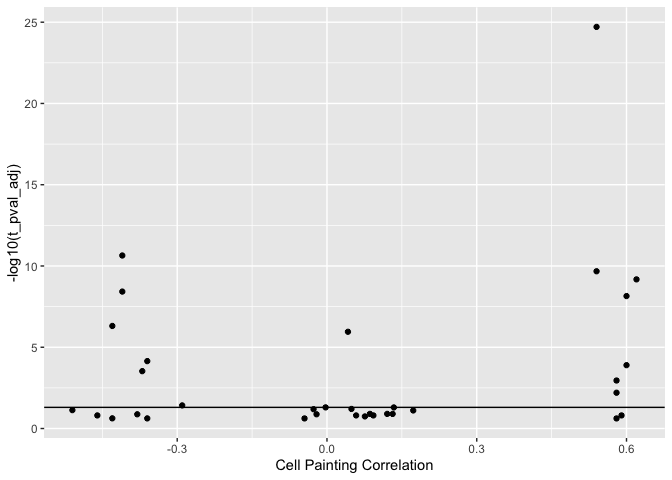
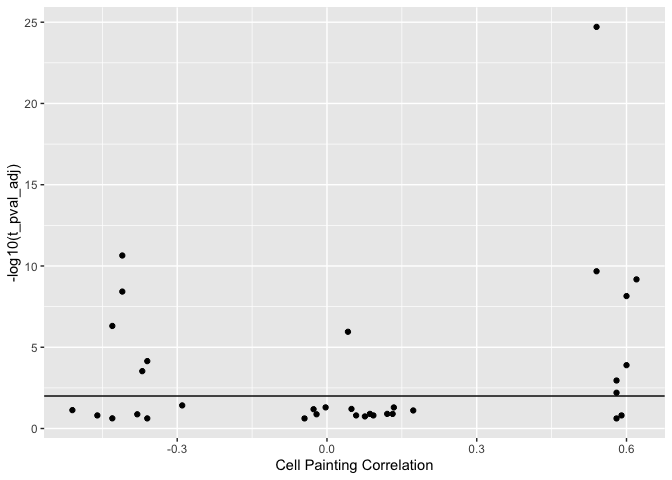
signif

Changed region(s): [[0.0625, 0.8125, 0.9688, 0.875]]

diff --git a/p38a/knit_notebooks/2.inspect-single-cell.md b/p38a/knit_notebooks/2.inspect-single-cell.md
@@ -371,7 +371,7 @@ statistics_agg <-
 statistics_agg %>%
   ggplot(aes(Broad, -log10(t_pval_adj))) + 
   geom_point() + 
-  geom_hline(yintercept = -log10(0.05)) + 
+  geom_hline(yintercept = -log10(0.01)) + 
   xlab("Cell Painting Correlation") +
   coord_cartesian(clip = "off")
 ```
@@ -382,7 +382,7 @@ statistics_agg %>%
 statistics_agg %>%
   ggplot(aes(Broad, -log10(ks_pval_adj))) + 
   geom_point() + 
-  geom_hline(yintercept = -log10(0.05)) + 
+  geom_hline(yintercept = -log10(0.01)) + 
   xlab("Cell Painting Correlation") +
   coord_cartesian(clip = "off")
 ```
@@ -425,7 +425,7 @@ screen_data <-
 ```
 
     ## 
-    ## ── Column specification ───────────────────────────────────────────────────────────────────────────────
+    ## ── Column specification ────────────────────────────────────────────────────────────────────────────────────────────────────────────────────
     ## cols(
     ##   Cmpd = col_character(),
     ##   Broad = col_double(),
